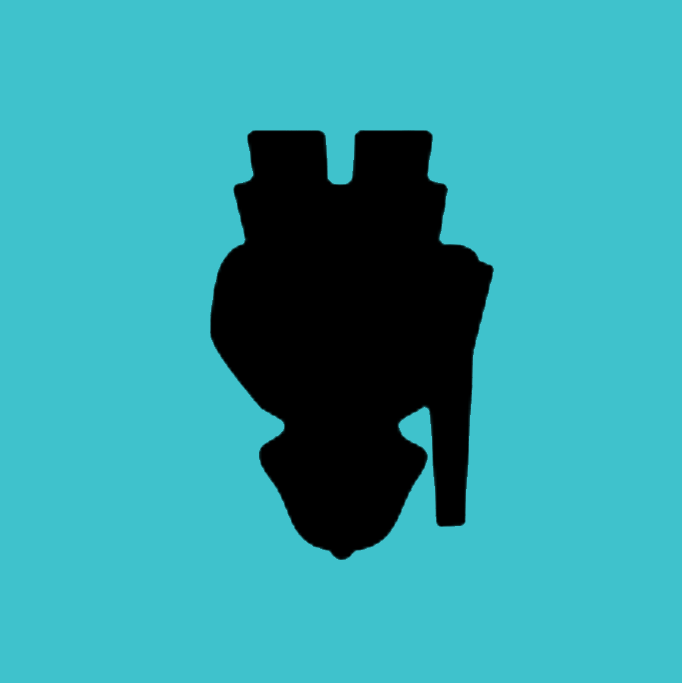
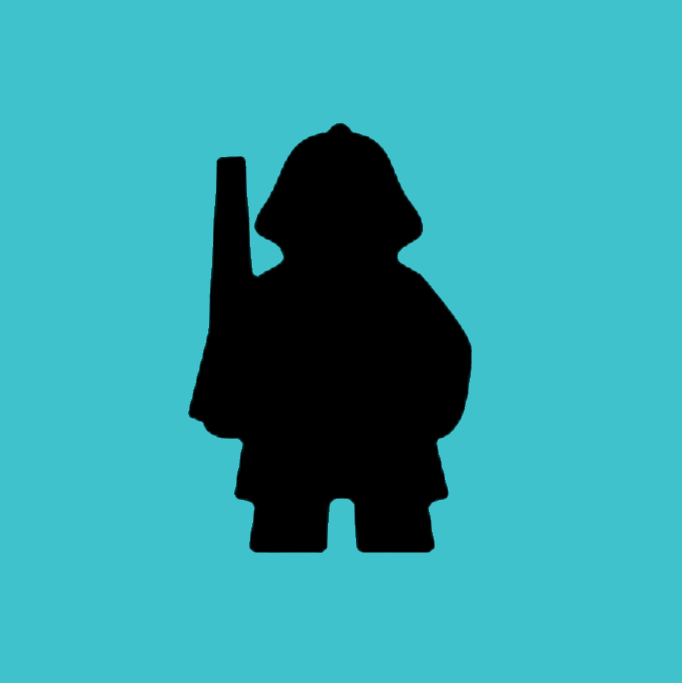
Dice

Changed region(s): [[0.2771, 0.1845, 0.739, 0.8302]]

diff --git a/src/main/java/ootie/service/emoji/DiceEmojis.java b/src/main/java/ootie/service/emoji/DiceEmojis.java
@@ -1,121 +1,104 @@
 package ootie.service.emoji;
 
 public enum DiceEmojis implements OotieEmoji {
-    // Green
-    d10green_0,
-    d10green_1,
-    d10green_2,
-    d10green_3,
-    d10green_4,
-    d10green_5,
-    d10green_6,
-    d10green_7,
-    d10green_8,
-    d10green_9,
-    // Red
-    d10red_0,
-    d10red_1,
-    d10red_2,
-    d10red_3,
-    d10red_4,
-    d10red_5,
-    d10red_6,
-    d10red_7,
-    d10red_8,
-    d10red_9,
-    // Blue
-    d10blue_0,
-    d10blue_1,
-    d10blue_2,
-    d10blue_3,
-    d10blue_4,
-    d10blue_5,
-    d10blue_6,
-    d10blue_7,
-    d10blue_8,
-    d10blue_9,
-    // Gray
-    d10grey_0,
-    d10grey_1,
-    d10grey_2,
-    d10grey_3,
-    d10grey_4,
-    d10grey_5,
-    d10grey_6,
-    d10grey_7,
-    d10grey_8,
-    d10grey_9;
+    infantry1,
+    infantry2,
+    infantry3,
+    infantry4,
+    infantry5,
+    infantry6,
+    exploration1,
+    exploration2,
+    exploration3,
+    exploration4,
+    exploration5,
+    exploration6,
+    artillery1,
+    artillery2,
+    artillery3,
+    artillery4,
+    artillery5,
+    artillery6,
+    cavalry1,
+    cavalry2,
+    cavalry3,
+    cavalry4,
+    cavalry5,
+    cavalry6,
+    rebel1,
+    rebel2,
+    rebel3,
+    rebel4,
+    rebel5,
+    rebel6;
 
-    public static String getDieEmoji(String color, int value) {
-        return switch (color) {
-            case "red" -> getRedDieEmoji(value);
-            case "blue" -> getBlueDieEmoji(value);
-            case "green" -> getGreenDieEmoji(value);
-            case "gray", "grey" -> getGrayDieEmoji(value);
+    public static String getDieEmoji(String type, int value) {
+        return switch (type) {
+            case "infantry" -> getInfantryDieEmoji(value);
+            case "exploration" -> getExplorationDieEmoji(value);
+            case "artillery" -> getArtilleryDieEmoji(value);
+            case "cavalry" -> getCavalryDieEmoji(value);
+            case "rebel" -> getRebelDieEmoji(value);
             default -> String.valueOf(value);
         };
     }
 
-    public static String getRedDieEmoji(int value) {
+    public static String getInfantryDieEmoji(int value) {
         return switch (value) {
-            case 0, 10 -> d10red_0.toString();
-            case 1 -> d10red_1.toString();
-            case 2 -> d10red_2.toString();
-            case 3 -> d10red_3.toString();
-            case 4 -> d10red_4.toString();
-            case 5 -> d10red_5.toString();
-            case 6 -> d10red_6.toString();
-            case 7 -> d10red_7.toString();
-            case 8 -> d10red_8.toString();
-            case 9 -> d10red_9.toString();
+            case 1 -> infantry1.toString();
+            case 2 -> infantry2.toString();
+            case 3 -> infantry3.toString();
+            case 4 -> infantry4.toString();
+            case 5 -> infantry5.toString();
+            case 6 -> infantry6.toString();
             default -> String.valueOf(value);
         };
     }
 
-    public static String getGreenDieEmoji(int value) {
+    public static String getExplorationDieEmoji(int value) {
         return switch (value) {
-            case 0, 10 -> d10green_0.toString();
-            case 1 -> d10green_1.toString();
-            case 2 -> d10green_2.toString();
-            case 3 -> d10green_3.toString();
-            case 4 -> d10green_4.toString();
-            case 5 -> d10green_5.toString();
-            case 6 -> d10green_6.toString();
-            case 7 -> d10green_7.toString();
-            case 8 -> d10green_8.toString();
-            case 9 -> d10green_9.toString();
+            case 1 -> exploration1.toString();
+            case 2 -> exploration2.toString();
+            case 3 -> exploration3.toString();
+            case 4 -> exploration4.toString();
+            case 5 -> exploration5.toString();
+            case 6 -> exploration6.toString();
             default -> String.valueOf(value);
         };
     }
 
-    private static String getBlueDieEmoji(int value) {
+    public static String getArtilleryDieEmoji(int value) {
         return switch (value) {
-            case 0, 10 -> d10blue_0.toString();
-            case 1 -> d10blue_1.toString();
-            case 2 -> d10blue_2.toString();
-            case 3 -> d10blue_3.toString();
-            case 4 -> d10blue_4.toString();
-            case 5 -> d10blue_5.toString();
-            case 6 -> d10blue_6.toString();
-            case 7 -> d10blue_7.toString();
-            case 8 -> d10blue_8.toString();
-            case 9 -> d10blue_9.toString();
+            case 1 -> artillery1.toString();
+            case 2 -> artillery2.toString();
+            case 3 -> artillery3.toString();
+            case 4 -> artillery4.toString();
+            case 5 -> artillery5.toString();
+            case 6 -> artillery6.toString();
             default -> String.valueOf(value);
         };
     }
 
-    public static String getGrayDieEmoji(int value) {
+    public static String getCavalryDieEmoji(int value) {
         return switch (value) {
-            case 0, 10 -> d10grey_0.toString();
-            case 1 -> d10grey_1.toString();
-            case 2 -> d10grey_2.toString();
-            case 3 -> d10grey_3.toString();
-            case 4 -> d10grey_4.toString();
-            case 5 -> d10grey_5.toString();
-            case 6 -> d10grey_6.toString();
-            case 7 -> d10grey_7.toString();
-            case 8 -> d10grey_8.toString();
-            case 9 -> d10grey_9.toString();
+            case 1 -> cavalry1.toString();
+            case 2 -> cavalry2.toString();
+            case 3 -> cavalry3.toString();
+            case 4 -> cavalry4.toString();
+            case 5 -> cavalry5.toString();
+            case 6 -> cavalry6.toString();
+            default -> String.valueOf(value);
+        };
+    }
+
+    public static String getRebelDieEmoji(int value) {
+        return switch (value) {
+            case 1 -> rebel1.toString();
+            case 2 -> rebel2.toString();
+            case 3 -> rebel3.toString();
+            case 4 -> rebel4.toString();
+            case 5 -> rebel5.toString();
+            case 6 -> rebel6.toString();
             default -> String.valueOf(value);
         };
     }

diff --git a/src/main/java/ootie/discord/JdaService.java b/src/main/java/ootie/discord/JdaService.java
@@ -1,5 +1,6 @@
 package ootie.discord;
 
+import jakarta.annotation.Nullable;
 import java.util.EnumSet;
 import java.util.HashSet;
 import java.util.List;
@@ -9,10 +10,6 @@ import java.util.concurrent.ExecutorService;
 import java.util.concurrent.Executors;
 import java.util.concurrent.TimeUnit;
 import java.util.stream.Collectors;
-
-import org.apache.commons.lang3.function.Consumers;
-
-import jakarta.annotation.Nullable;
 import lombok.experimental.UtilityClass;
 import net.dv8tion.jda.api.JDA;
 import net.dv8tion.jda.api.JDABuilder;
@@ -44,6 +41,7 @@ import ootie.service.emoji.ApplicationEmojiService;
 import ootie.settings.GlobalSettings;
 import ootie.spring.context.SpringContext;
 import ootie.spring.service.deploy.ActiveLeaseService;
+import org.apache.commons.lang3.function.Consumers;
 
 @UtilityClass
 public class JdaService {

diff --git a/src/main/java/ootie/helpers/PlayerHelper.java b/src/main/java/ootie/helpers/PlayerHelper.java
@@ -3,7 +3,6 @@ package ootie.helpers;
 import java.awt.AlphaComposite;
 import java.awt.Graphics2D;
 import java.awt.image.BufferedImage;
-
 import net.dv8tion.jda.api.events.interaction.command.SlashCommandInteractionEvent;
 import net.dv8tion.jda.api.utils.FileUpload;
 import ootie.ResourceHelper;

diff --git a/src/main/java/ootie/helpers/GameImageHelper.java b/src/main/java/ootie/helpers/GameImageHelper.java
@@ -6,7 +6,6 @@ import java.awt.image.BufferedImage;
 import java.util.ArrayList;
 import java.util.Collections;
 import java.util.List;
-
 import net.dv8tion.jda.api.utils.FileUpload;
 import ootie.ResourceHelper;
 import ootie.discord.commands.search.SearchImageHelper;

diff --git a/src/main/java/ootie/ResourceHelper.java b/src/main/java/ootie/ResourceHelper.java
@@ -5,9 +5,7 @@ import java.util.HashMap;
 import java.util.Map;
 import java.util.Set;
 import java.util.concurrent.ThreadLocalRandom;
-
 import javax.annotation.Nullable;
-
 import ootie.game.Player;
 import ootie.helpers.Storage;
 import ootie.image.Mapper;
